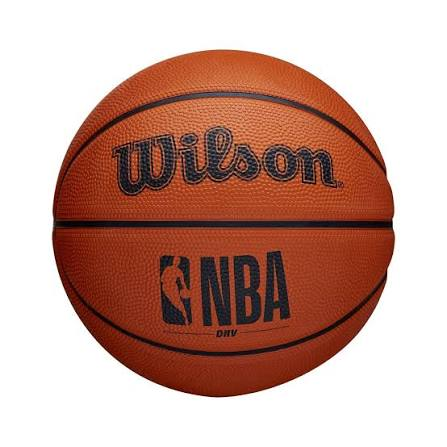
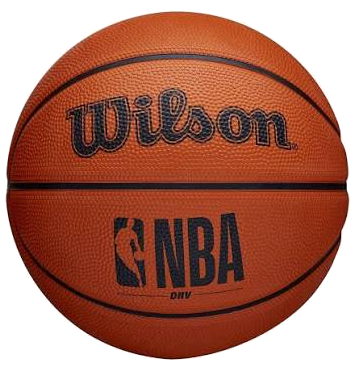
code jam commit

diff --git a/code_jam/random_walk.py b/code_jam/random_walk.py
@@ -1,0 +1,35 @@
+from random import choice
+class RandomWalk:
+    """A class to generate random walks."""
+    def __init__(self, num_points=5000):
+        """Initialize attributes of a walk."""
+        self.num_points = num_points
+
+        # walks start as (0,0)
+        self.x_values = [0]
+        self.y_values = [0]
+
+    def fill_walk(self):
+        """Calculate all the points in the walk."""
+
+        # take steps until walk reaches desired length
+        while len(self.x_values) < self.num_points:
+            # choose direction and distance for x and y
+            x_direction = choice([1, -1])
+            x_distance = choice([0, 1, 2, 3, 4])
+            x_step = x_direction * x_distance
+
+            y_direction = choice([1, -1])
+            y_distance = choice([0, 1, 2, 3, 4])
+            y_step = y_direction * y_distance
+
+            # reject moves that go nowhere
+            if x_step == 0 and y_step == 0:
+                continue
+
+            # calculate the new position
+            x = self.x_values[-1] + x_step
+            y = self.y_values[-1] + y_step
+
+            self.x_values.append(x)
+            self.y_values.append(y)

diff --git a/code_jam/rw_visual.py b/code_jam/rw_visual.py
@@ -1,0 +1,35 @@
+import matplotlib.pyplot as plt
+from random_walk import RandomWalk
+
+# Make a random walk.
+rw = RandomWalk()
+rw.fill_walk()
+
+# Plot the points in the walk.
+plt.style.use('classic')
+fig, ax = plt.subplots()
+ax.scatter(rw.x_values, rw.y_values, s=15)
+ax.set_aspect('equal')
+
+import matplotlib.pyplot as plt
+
+from random_walk import RandomWalk
+
+# making new walks, as long as program is active
+
+while True:
+    # making random walk
+    rw = RandomWalk()
+    rw.fill_walk()
+
+    # plot the points in the walk
+    plt.style.use('classic')
+    fig, ax = plt.subplots()
+    point_numbers = list(range(rw.num_points))
+    ax.scatter(rw.x_values, rw.y_values, c=point_numbers, cmap=plt.cm.Blues, edgecolors='none', s=15)
+    ax.set_aspect('equal')
+    plt.show()
+    keep_running = input("Make another random walk? (y/n): ")
+    if keep_running.lower() != 'y':
+        break
+    

diff --git a/15_generating_data/15_02_colored_cubes.py b/15_generating_data/15_02_colored_cubes.py
@@ -1,0 +1,26 @@
+'''
+
+Raymond Nault
+Chapter 15: Generating Data
+
+'''
+
+# code will generate and display a chart of cubes of numbers with different colors
+
+import matplotlib.pyplot as plt
+cubes = [1, 8, 27, 64, 125]
+fig, ax = plt.subplots()
+ax.plot(cubes, linewidth=3)
+
+# chart title and axis labels
+ax.set_title('Cube Numbers', fontsize=24)
+ax.set_xlabel('Value', fontsize=14)
+ax.set_ylabel('Cube of Value', fontsize=14)
+
+# tick label size
+ax.tick_params(labelsize=14)
+
+# colors
+ax.plot(cubes, color='red', linewidth=3)
+ax.plot(cubes, color='blue', linewidth=3)
+plt.show()

diff --git a/15_generating_data/15_01_cubes.py b/15_generating_data/15_01_cubes.py
@@ -1,0 +1,23 @@
+'''
+
+Raymond Nault
+Chapter 15: Generating Cubes
+
+'''
+
+# code will generate and display a chart of cubes of numbers
+
+import matplotlib.pyplot as plt
+cubes = [1, 8, 27, 64, 125]
+fig, ax = plt.subplots()
+ax.plot(cubes, linewidth=3)
+
+# chart title and axis labels
+ax.set_title('Cube Numbers', fontsize=24)
+ax.set_xlabel('Value', fontsize=14)
+ax.set_ylabel('Cube of Value', fontsize=14)
+
+# tick label size
+ax.tick_params(labelsize=14)
+
+plt.show()

diff --git a/code_jam/pygame_install.py b/code_jam/pygame_install.py
@@ -6,7 +6,7 @@ import pygame
 pygame.init()
 screen = pygame.display.set_mode((640, 480))
 clock = pygame.time.Clock()
-my_image = pygame.image.load('assignments/code_jam/images/basketball_small.png')
+my_image = pygame.image.load('assignments/code_jam/images/basketball.png')
 image_rect = my_image.get_rect(center=(320, 240))
 running = True
 

diff --git a/15_generating_data/15_03_molecular_motion.py b/15_generating_data/15_03_molecular_motion.py
@@ -1,0 +1,9 @@
+'''
+
+Raymond Nault
+Chapter 15: Generating Data
+
+'''
+
+# random walk mod
+
